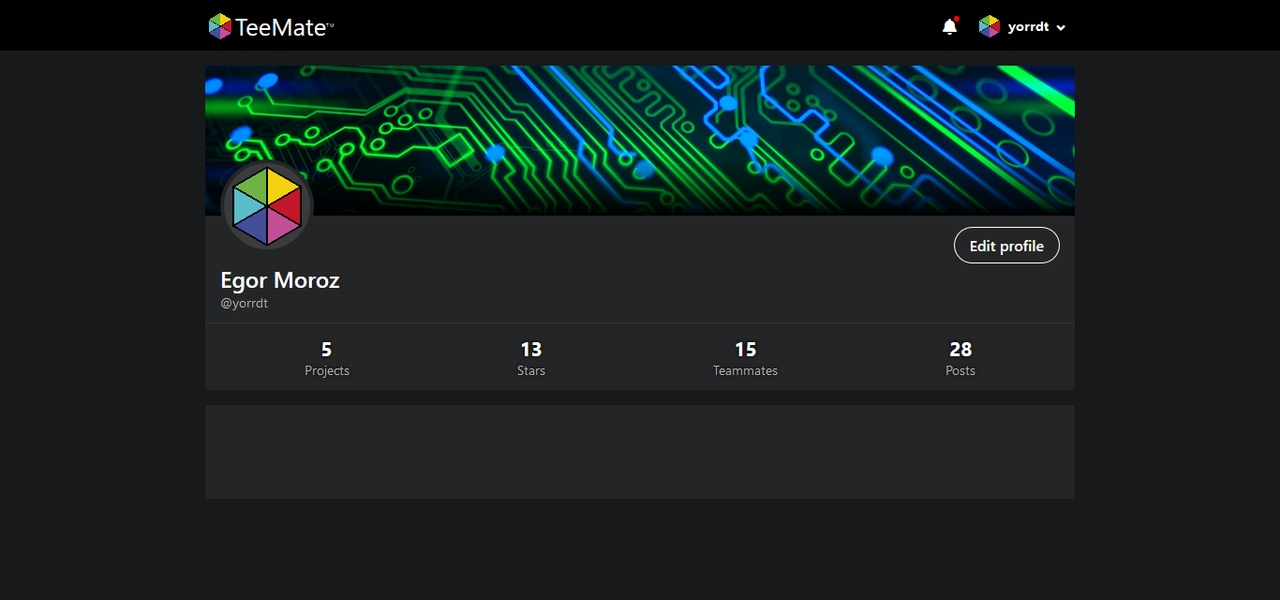
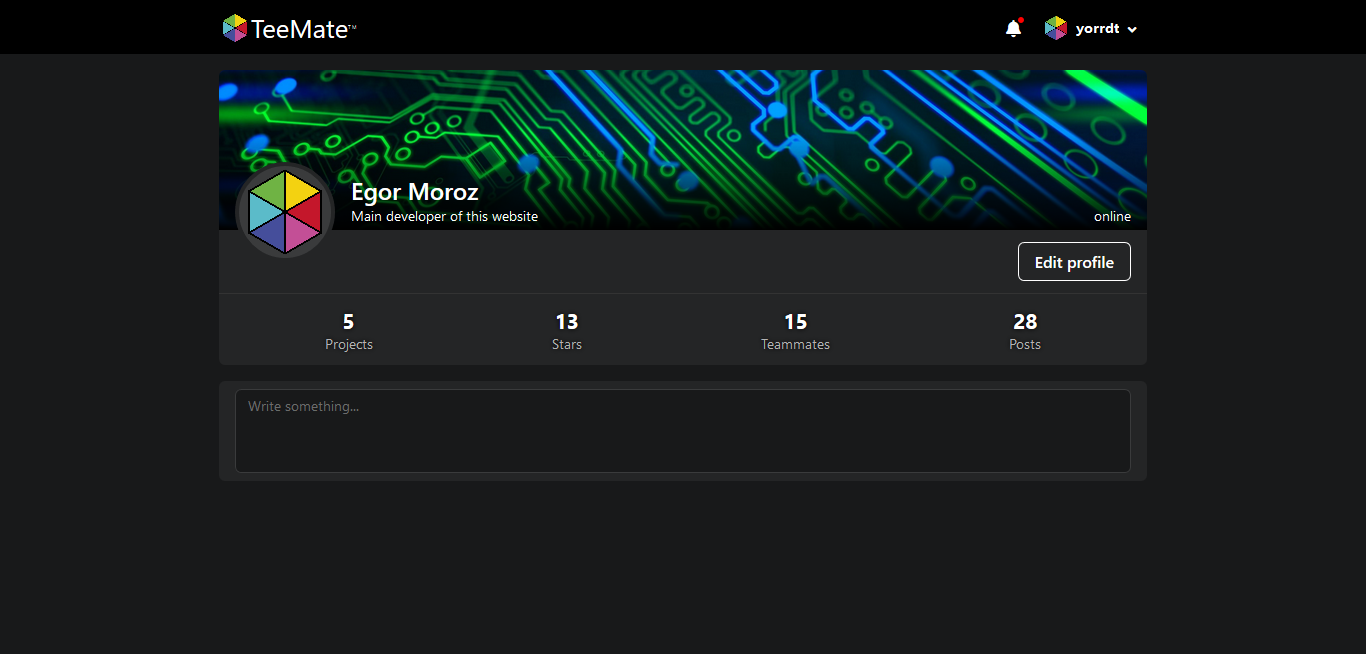
header fix, new profile design, new illustration

diff --git a/components/style/profile.css b/components/style/profile.css
@@ -13,37 +13,72 @@
 }
 
 .profile-background {
-    display: block;
-    background: linear-gradient(transparent 60%, black 100%), url("~assets/2560x1440.jpg");
+    position: relative;
+    background: linear-gradient(transparent 40%, black 100%), url("~assets/2560x1440.jpg");
     background-position: center;
     background-size: cover;
     height: 160px;
-    border-radius: 4px 4px 0 0;
+    border-radius: 6px 6px 0 0;
 }
 
-.profile-subbackground {
-    position: relative;
+.background-blocks {
+    position: absolute;
+    width: 100%;
+    bottom: -32px;
     display: flex;
-    flex-direction: column;
-    background-color: var(--container);
-    border-radius: 0 0 4px 4px;
+    z-index: 20;
 }
 
-.profile-info {
-    padding: 12px 16px;
-    border-bottom: 1px solid var(--border);
+.profile-avatar-block {
+    margin-left: 16px;
+    margin-right: 16px;
 }
 
 .profile-avatar {
-    position: absolute;
-    top: -60px;
-    left: 16px;
     display: block;
     border: 4px solid var(--container);
     background-color: var(--container-light);
     max-width: 100px;
     max-height: 100px;
     border-radius: 50%;
+}
+
+.profile-names {
+    display: inline-flex;
+    flex-direction: column;
+    padding-top: 12px;
+}
+
+.user-name {
+    display: flex;
+    align-items: center;
+    font-size: 24px;
+    font-weight: 600;
+}
+
+.user-name-network {
+    display: flex;
+    padding-top: 6px;
+    margin-right: 16px;
+    flex: auto;
+    align-self: center;
+    justify-content: flex-end;
+}
+
+.user-status {
+    color: var(--white);
+}
+
+.profile-subbackground {
+    display: flex;
+    flex-direction: column;
+    background-color: var(--container);
+    border-radius: 0 0 6px 6px;
+}
+
+.profile-info {
+    padding: 12px 16px;
+    border-bottom: 1px solid var(--border);
 }
 
 .profile-edit {
@@ -54,7 +89,7 @@
 .profile-edit-button {
     padding: 8px 16px;
     border: 1px solid var(--white);
-    border-radius: 2em;
+    border-radius: 6px;
     font-size: 16px;
     font-weight: 600;
 }
@@ -62,20 +97,6 @@
 .profile-edit-button:hover {
     color: var(--gray-color);
     border-color: var(--gray-color);
-}
-
-.profile-names {
-    display: flex;
-    flex-direction: column;
-}
-
-.user-name {
-    font-size: 24px;
-    font-weight: 600;
-}
-
-.user-nickname {
-    color: var(--gray-color);
 }
 
 .profile-subinfo {
@@ -96,7 +117,30 @@
 }
 
 .profile-post {
+    display: flex;
+    padding: 8px 16px;
     height: 100px;
     background-color: var(--container);
-    border-radius: 4px;
+    border-radius: 6px;
+}
+
+.profile-form {
+    display: flex;
+    flex-direction: column;
+    width: 100%;
+}
+
+.profile-form-input {
+    flex: auto;
+    background-color: var(--background);
+    border-radius: 6px;
+    line-height: 20px;
+    padding: 5px 12px;
+    border: 0;
+    border: 1px solid var(--container-light);
+    outline: none;
+    color: var(--gray-color);
+    width: 100%;
+    height: inherit;
+    resize: none;
 }

diff --git a/components/html/profile.html b/components/html/profile.html
@@ -1,16 +1,22 @@
 <div class="section-wrapper">
     <section class="section-container">
         <div class="profile-header">
-            <div class="profile-background"></div>
-            <div class="profile-subbackground">
-                <div class="profile-info">
-                    <img class="profile-avatar" src="~assets/logo.png" alt="">
-                    <div class="profile-edit">
-                        <NuxtLink class="profile-edit-button" to="/">Edit profile</NuxtLink>
+            <div class="profile-background">
+                <div class="background-blocks">
+                    <div class="profile-avatar-block">
+                        <img class="profile-avatar" src="~assets/logo.png" alt="">
                     </div>
                     <div class="profile-names">
-                        <span class="user-name">Egor Moroz</span>
-                        <span class="user-nickname">@yorrdt</span>
+                        <div class="user-name">Egor Moroz</div>
+                        <span class="user-status">Main developer of this website</span>
+                    </div>
+                    <div class="user-name-network">online</div>
+                </div>
+            </div>
+            <div class="profile-subbackground">
+                <div class="profile-info">
+                    <div class="profile-edit">
+                        <NuxtLink class="profile-edit-button" to="/">Edit profile</NuxtLink>
                     </div>
                 </div>
                 <div class="profile-subinfo">
@@ -42,7 +48,12 @@
             </div>
         </div>
         <div class="profile-content">
-            <div class="profile-post"></div>
+            <div class="profile-post">
+                <form class="profile-form">
+                    <textarea class="profile-form-input" type="text" placeholder="Write something..."></textarea>
+                    <!-- <button class="profile-form-button" type="button">Button</button> -->
+                </form>
+            </div>
         </div>
     </section>
 </div>

diff --git a/assets/main.css b/assets/main.css
@@ -22,7 +22,7 @@
 	padding: 0;
 }
 
-body, button, input {
+body, button, input, textarea {
 	background-color: var(--background);
 	font-family: system-ui, -apple-system, BlinkMacSystemFont, Segoe UI, Roboto, Helvetica Neue, Arial, Noto Sans, sans-serif, Apple Color Emoji, Segoe UI Emoji, Segoe UI Symbol, Noto Color Emoji;
 	font-size: 14px;

diff --git a/components/script/profile.js b/components/script/profile.js
@@ -1,3 +1,8 @@
 export default {
-    layout: 'tight'
+    layout: 'tight',
+    head() {
+        return {
+            title: 'TeeMate · Profile'
+        }
+    }
 }

diff --git a/components/script/signup.js b/components/script/signup.js
@@ -1,3 +1,7 @@
-export default { 
-
+export default {
+    head() {
+        return {
+            title: 'TeeMate · Sign up'
+        }
+    }
 }

diff --git a/components/script/projects.js b/components/script/projects.js
@@ -9,4 +9,9 @@ export default {
 			Proj: jsonProj
 		}
 	},
+	head() {
+		return {
+			title: 'TeeMate · Projects'
+		}
+	}
 }

diff --git a/components/script/signin.js b/components/script/signin.js
@@ -1,3 +1,7 @@
 export default {
-
+    head() {
+        return {
+            title: 'TeeMate · Sign in'
+        }
+    }
 }
